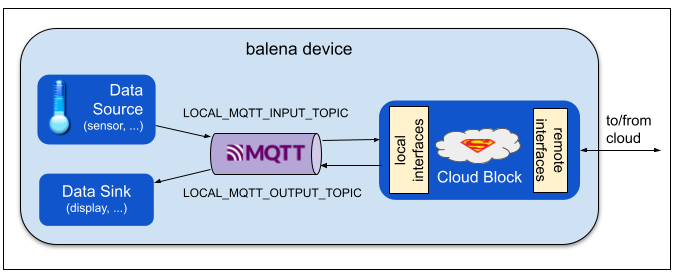
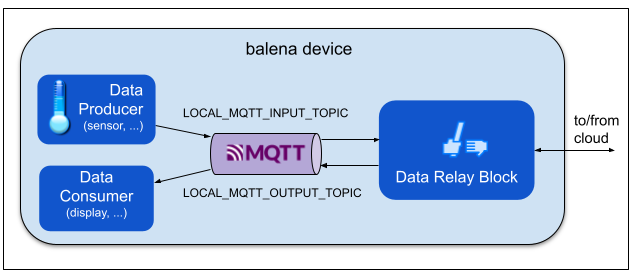
Update remainder of docs for use of Data Relay
Change-type: patch

Changed region(s): [[0.0, 0.0289, 1.0, 0.9819], [0.0597, 0.0866, 0.865, 0.1444], [0.3579, 0.1444, 0.5667, 0.2022]]

diff --git a/docs/02-configuration.md b/docs/02-configuration.md
@@ -1,30 +1,30 @@
 # Configuration
 
-The cloud block allows you to easily send or receive data with a cloud service like a message queue. This page describes how to configure it.
+The Data Relay block allows you to easily send or receive data with a cloud service like a message queue. This page describes how to configure it.
 
 ## Autoconfiguration
-Each cloud service requires the value of certain configuration and authentication variables to function. For example, suppose you wish to use Azure Event Hubs. In this case you must define a connection string (AZURE_EH_CONNECTIONSTRING), a storage account (AZURE_EH_STORAGE_ACCOUNT), and so on. However, you do not need to explicitly activate Event Hubs as a whole. Simply defining all the required environment variables is sufficient to activate use of the service.
+Each cloud service requires the value of certain configuration and authentication variables to function. For example, suppose you have set up Azure Event Hubs in the Microsoft cloud. In this case you must define a connection string (AZURE_EH_CONNECTIONSTRING), a storage account (AZURE_EH_STORAGE_ACCOUNT), and so on to communicate with Event Hubs. However, you do not need to explicitly activate Event Hubs as a whole on the balena device. Simply defining all the required balena application variables is sufficient to activate use of the service on the device.
 
-This autoconfiguration capability also means you may send data to *multiple* cloud services or cloud providers for each message received on the MQTT input queue on a device. As long as the required environment variables for a cloud service are defined, the cloud block will attempt to use it.
+This autoconfiguration capability also means you may send data to *multiple* cloud services or cloud providers for each message received on the MQTT input queue on a device. As long as the required environment variables for a cloud service are defined, the Data Relay block will attempt to use it.
 
 ## Send vs. Receive Data
-Some cloud services, like message queues, can push data to a device as well as accept data from the device. The cloud block makes it easy to accept data from the cloud simply by defining the expected environment variables, as shown in the diagram below. If you define LOCAL_MQTT_OUTPUT_TOPIC, then the cloud block automatically subscribes to new data from the cloud, and publishes the data to the local interface.
+Some cloud services, like message queues, can push data to a device as well as accept data from the device. The Data Relay block makes it easy to accept data from the cloud simply by defining the expected application variables, as shown in the diagram below. If you define `LOCAL_MQTT_OUTPUT_TOPIC`, then the Data Relay block automatically subscribes to new data from the cloud, and publishes the data to the local interface.
 
 ![send-vs-receive](https://raw.githubusercontent.com/kb2ma/data-relay/landr_for_data_relay/docs/images/send-vs-receive.png)
 
-See the [remote-reader example](https://github.com/kb2ma/data-relay/tree/landr_for_data_relay/examples/remote-reader), which subscribes to a cloud message queue.
+See the [remote-reader](https://github.com/kb2ma/data-relay/tree/landr_for_data_relay/examples/remote-reader) example, which subscribes to a cloud message queue.
 
 ## Configuration via Secret Store
 
-AWS includes a secret store service, Secrets Manager. Like it sounds, a secret store is used to store and access secret values, accessed by name like an environment variable. In fact, the services we wish to configure are housed with the cloud provider. So actually it is safer and more convenient to store the service configuration values as secrets with the provider in the cloud rather than specify them separately as Environment Variables in balenaCloud.
+AWS includes a secret store service, Secrets Manager. Like it sounds, a secret store is used to store and access secret values, accessed by name like an environment variable. In fact, the services we wish to configure are housed with the cloud provider. So actually it is safer and more convenient to store the service configuration values as secrets with the provider in the cloud rather than specify them separately as application Variables in balenaCloud.
 
 In addition a security best practice is to periodically rotate secret values just in case a value has been compromised without your knowledge. Rotation is easier to implement when the the secret values are defined with the cloud service provider.
 
-The diagram below shows the steps to setup and run the cloud block. The cloud block includes a Configurator that initially reads *both* environment variables and secret values from a secret store. Next the configurator connects to the cloud data service with the required service and authentication values. Then the block is ready to push your application data to the cloud service.
+The diagram below shows the steps to setup and run the Data Relay block. The Data Relay block includes a Configurator that initially reads *both* application variables and secret values from a secret store. Next the configurator connects to the cloud data service with the required service and authentication values. Then the block is ready to push your application data to the cloud service.
 
 ![configuration](https://raw.githubusercontent.com/kb2ma/data-relay/landr_for_data_relay/docs/images/configuration.png)
 
-A secret store itself also requires some setup and authentication values to allow access to its secrets. These values *must* be provided as balena Environment Variables.
+A secret store itself also requires some setup and authentication values to allow access to its secrets. These values *must* be provided as balena application Variables.
 
 ### AWS Secrets Manager setup
 
@@ -48,7 +48,8 @@ When actually adding secrets, add them simply as Plaintext -- no separate key an
 
 It is straightforward to set up Azure Key Vault from the Azure CLI. See the CLI [installation instructions](https://docs.microsoft.com/en-us/cli/azure/install-azure-cli?view=azure-cli-latest). Dapr provides useful [setup instructions](https://docs.dapr.io/reference/components-reference/supported-secret-stores/azure-keyvault/#setup-key-vault-and-service-principal) for Key Vault.
 
-You also must add the certificate file to cloud container. Instructions to follow...
+You also must add the certificate file to the 
+data_relay container by building a custom container. See the [cputemp example](https://github.com/kb2ma/data-relay/tree/landr_for_data_relay/examples/cputemp) Docker Compose file and data_relay directory for an example.
 
 ### GCP Secret Manager setup
 

diff --git a/docs/03-config-msgqueue.md b/docs/03-config-msgqueue.md
@@ -1,30 +1,32 @@
 # Message Queues
-A message queue supports both sending data to the queue and receiving new data from the queue. This page lists the environment variables or secret store values you must define to use each provider.
+A message queue supports both sending data to the queue and receiving new data from the queue. This page lists the environment variables or secret store values you must define to use each provider. Also see [Send vs. Receive Data](configuration#send-vs-receive-data) on the Configuration page.
 
 ## AWS SQS
+`AWS_SQS_QUEUE_NAME` and `AWS_SQS_REGION` are specific to the queue. Other variables are more generally related to the account being used. The IAM User must at least have SQS *SendMessage* and/or *ReadMessage* permissions depending on use.
 
-| Environment Variable Name | Secret Store Key | Description |
+| Application Variable Name | Secret Store Key | Description |
 |---------------------------|------------------|-------------|
-|AWS_SQS_QUEUE_NAME         |aws-sqs-queue-name  | |
-|AWS_SQS_REGION             |aws-sqs-region  | |
+|AWS_SQS_QUEUE_NAME         |aws-sqs-queue-name  |Name of SQS queue for publish/subscribe |
+|AWS_SQS_REGION             |aws-sqs-region  |Region containing the queue |
 |AWS_SQS_ACCESS_KEY         |aws-sqs-access-key | |
-|AWS_SQS_SECRET_KEY         |aws-sqs-secret-key | |
+|AWS_SQS_SECRET_KEY         |aws-sqs-secret-key |For access key |
 
 ## Azure Event Hub
+The subscription for the managed identity must include the *Azure Event Hubs Data Sender* and/or *Azure Event Hubs Data Receiver* roles.
 
-| Environment Variable Name | Secret Store Key | Description |
+| Application Variable Name | Secret Store Key | Description |
 |---------------------------|------------------|-------------|
-|AZURE_EH_CONNECTION_STRING   |azure-eh-connection-string  | |
-|AZURE_EH_CONSUMER_GROUP      |azure-eh-consumer-group  | |
+|AZURE_EH_CONNECTION_STRING   |azure-eh-connection-string  |From shared access policy for Event Hubs instance |
+|AZURE_EH_CONSUMER_GROUP      |azure-eh-consumer-group  |For Event Hubs instance |
 |AZURE_EH_STORAGE_ACCOUNT     |azure-eh-storage-account | |
 |AZURE_EH_STORAGE_ACCOUNT_KEY |azure-eh-storage-account-key | |
-|AZURE_EH_CONTAINER_NAME      |azure-eh-container-hame | |
+|AZURE_EH_CONTAINER_NAME      |azure-eh-container-hame |Name of container for messages in storage account |
 
 ## Google Cloud Pub/Sub
 
-For the variables below, `GCP_PUBSUB_TOPIC` and `GCP_PUBSUB_SUBSCRIPTION` are specific to the data published. However, the other variables are more generally related to the account being used. For a GCP service account these values are available for download when creating the account.
+`GCP_PUBSUB_TOPIC` and `GCP_PUBSUB_SUBSCRIPTION` are specific to the data published. However, the other variables are more generally related to the account being used. For a GCP service account these values are available for download when creating the account. The account must at least have *Pub/Sub Publisher* and/or *Pub/Sub Subscriber* permissions depending on use.
 
-| Environment Variable Name            | Secret Store Key |Description                                 |
+| Application Variable Name            | Secret Store Key |Description                                 |
 |--------------------------------------|------------------|--------------------------------------------|
 |GCP_PUBSUB_TOPIC                      |gcp-pubsub-topic  |Name of topic a client uses to publish data messages to the queue |
 |GCP_PUBSUB_SUBSCRIPTION               |gcp-pubsub-subscription  |Optional; name of topic a client uses to subscribe to messages from the queue |

diff --git a/docs/04-influxdb.md b/docs/04-influxdb.md
@@ -2,7 +2,7 @@
 The InfluxDB plugin sends data to the InfluxDB database. This page lists the environment variables you must define, and also describes the required format for incoming data.
 
 ## Environment variables
-If you use InfluxDB Cloud, see the *Write data* [documentation](https://docs.influxdata.com/influxdb/cloud/write-data/#what-youll-need) for how to find the value for these variables.
+If you use InfluxDB Cloud, see the [*Write data*](https://docs.influxdata.com/influxdb/cloud/write-data/#what-youll-need) documentation for how to find the value for these variables.
 
 | Environment Variable Name | Secret Store Key | Description |
 |---------------------------|------------------|-------------|
